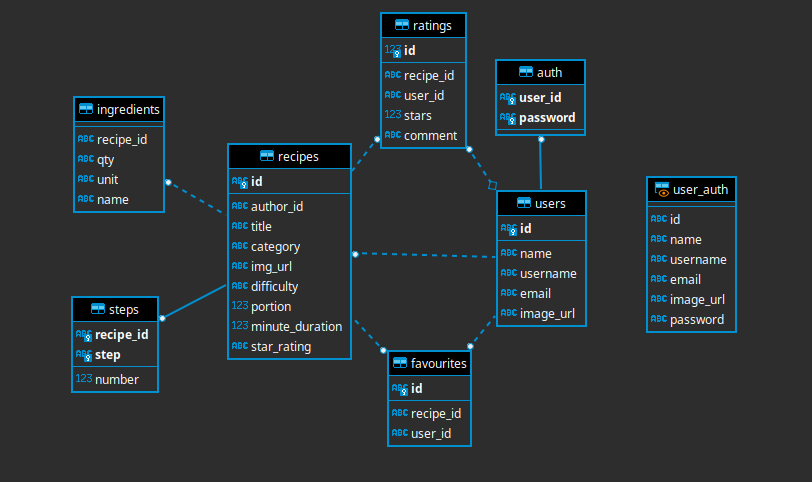
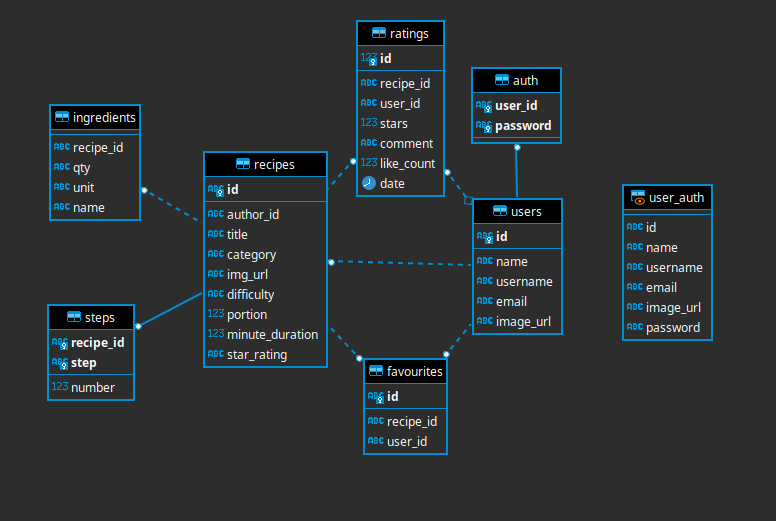
get ratings and update db diagram

Changed region(s): [[0.0619, 0.0, 0.7423, 0.9336], [0.7732, 0.3423, 0.9278, 0.7158]]

diff --git a/handlers/recipe/:recipe_id/ratings.js b/handlers/recipe/:recipe_id/ratings.js
@@ -1,0 +1,41 @@
+function getRatingsByRecipeId(pool){
+  return async(req, res) => {
+    const { recipe_id } = req.params;
+    const { order_by } = req.query;
+
+    if(!recipe_id){
+      res.status(400).json({message: "bad request: missing recipe_id"})
+      return;
+    }
+    
+    let queryText = 'SELECT u.username, u.image_url, r.stars, r.like_count, r.comment, r.date FROM ratings r JOIN users u ON r.user_id = u.id WHERE r.recipe_id = $1';
+
+    if(order_by == 'date') {
+      queryText += ' ORDER BY DATE DESC'
+    } else if (order_by == 'like_count') {
+      queryText += ' ORDER BY like_count DESC'
+    }
+
+    try {
+      const { rows } = await pool.query(queryText, [recipe_id]);
+      
+      if(rows.length > 0){
+        res.json({
+          message: 'success',
+          data: rows
+        })
+      } else {
+        res.status(404).json({message: `ratings data is not found for recipe_id: ${recipe_id}`})
+      }
+    } catch (error) {
+      res.status(500).json({
+        error: 'ServerError',
+        message: error.message
+      })
+    }
+  }
+}
+
+module.exports = {
+  getRatingsByRecipeId
+}

diff --git a/handlers/users.js b/handlers/users.js
@@ -20,7 +20,7 @@ function postNewUserHandler(pool) {
     } catch (error) {
       console.log(error)
       await pool.query('DELETE FROM users WHERE id = $1', [id]);
-      res.status(500).json({ error });
+      res.status(500).json({ error: 'ServerError', message: error.message });
     }
   };
 }
@@ -38,7 +38,7 @@ function getUserHandler(pool) {
         res.status(404).json({ message: "unexpected error: user not found" });
       }
     } catch (e) {
-      res.status(500).json({ message: "Server Error: " + e.message });
+      res.status(500).json({ error: "ServerError ", message: e.message });
     }
   };
 }
@@ -60,7 +60,7 @@ function putUserImageHandler(pool) {
         image_url: imageUrl
       });
     } catch (e) {
-      res.status(500).json({ message: e.message });
+      res.status(500).json({ error: 'ServerError', message: e.message });
     }
   };
 }

diff --git a/routes/index.js b/routes/index.js
@@ -9,6 +9,7 @@ const auth = require('../handlers/auth')
 const recipes = require('../handlers/recipes')
 const ingredients = require('../handlers/recipe/:recipe_id/ingredients')
 const steps = require('../handlers/recipe/:recipe_id/steps')
+const ratings = require('../handlers/recipe/:recipe_id/ratings')
 
 // public routes
 router.post("/register", users.postNewUserHandler(pool))
@@ -24,6 +25,7 @@ router.get("/recipe/:recipe_id/ingredients", jwtMiddleware, ingredients.getIngre
 
 router.get("/recipe/:recipe_id/steps", jwtMiddleware, steps.getStepsByRecipeId(pool))
 
+router.get("/recipe/:recipe_id/ratings", jwtMiddleware, ratings.getRatingsByRecipeId(pool))
 
 // router.post("recipe/image")
 // router.get("recipes/my")

diff --git a/handlers/recipe/:recipe_id/ingredients.js b/handlers/recipe/:recipe_id/ingredients.js
@@ -18,7 +18,10 @@ function getIngredientsByRecipeId(pool){
         res.status(404).json({message: `ingredients data is not found for recipe_id: ${recipe_id}`})
       }
     } catch (error) {
-
+      res.status(500).json({
+        error: 'ServerError',
+        message: error.message
+      })
     }
   }
 }

diff --git a/handlers/recipe/:recipe_id/steps.js b/handlers/recipe/:recipe_id/steps.js
@@ -18,7 +18,10 @@ function getStepsByRecipeId(pool){
         res.status(404).json({message: `steps data is not found for recipe_id: ${recipe_id}`})
       }
     } catch (error) {
-
+      res.status(500).json({
+        error: 'ServerError',
+        message: error.message
+      })
     }
   }
 }
